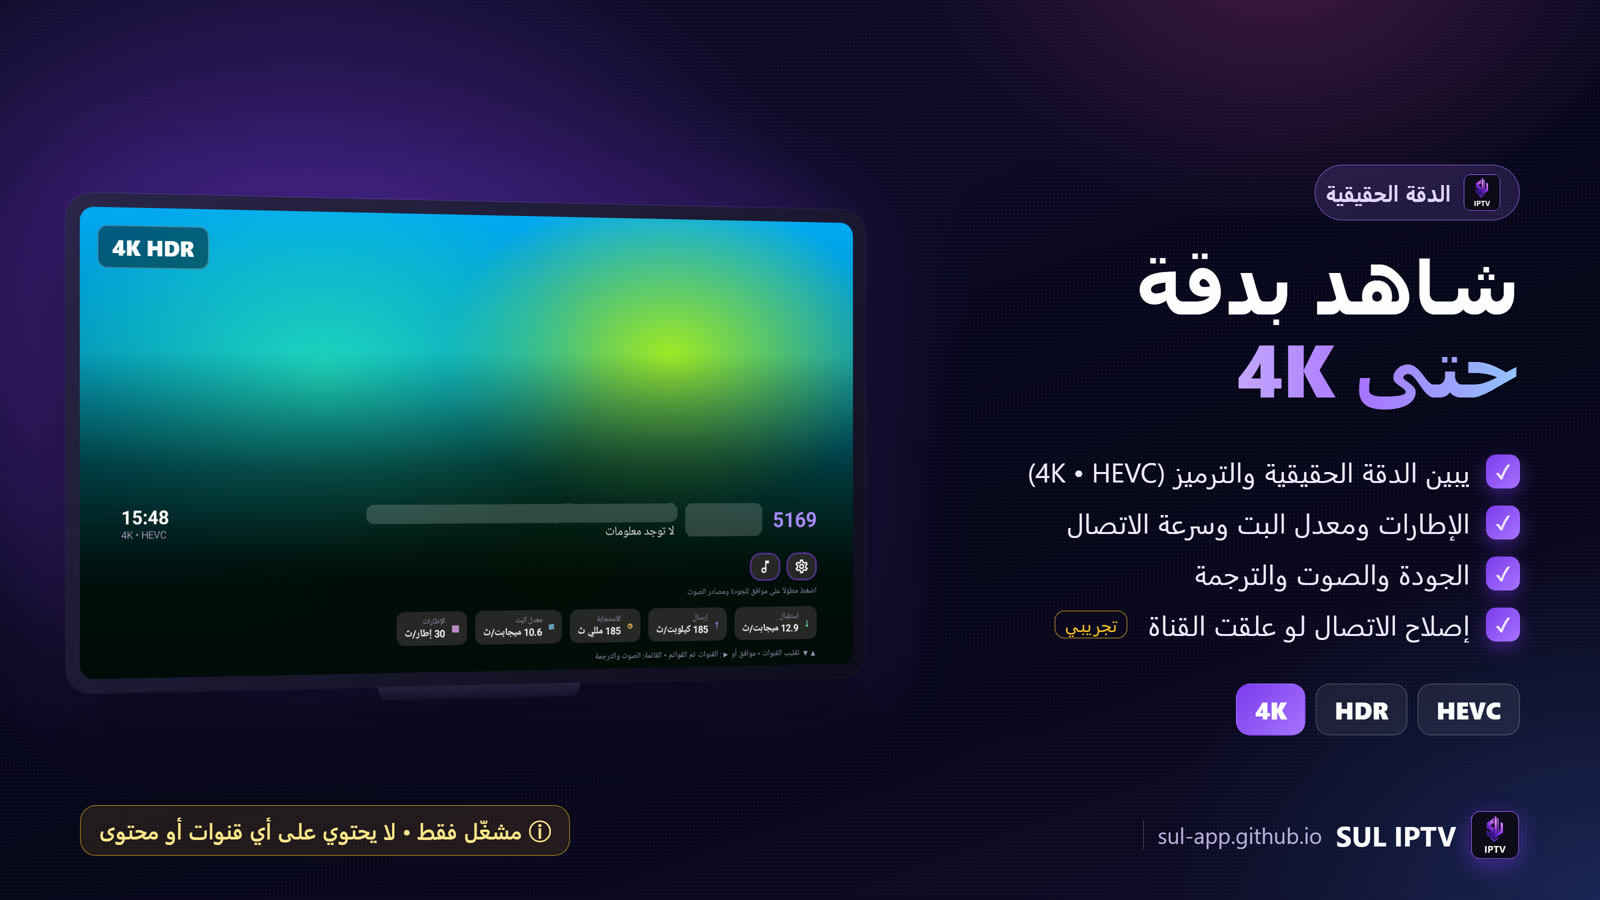
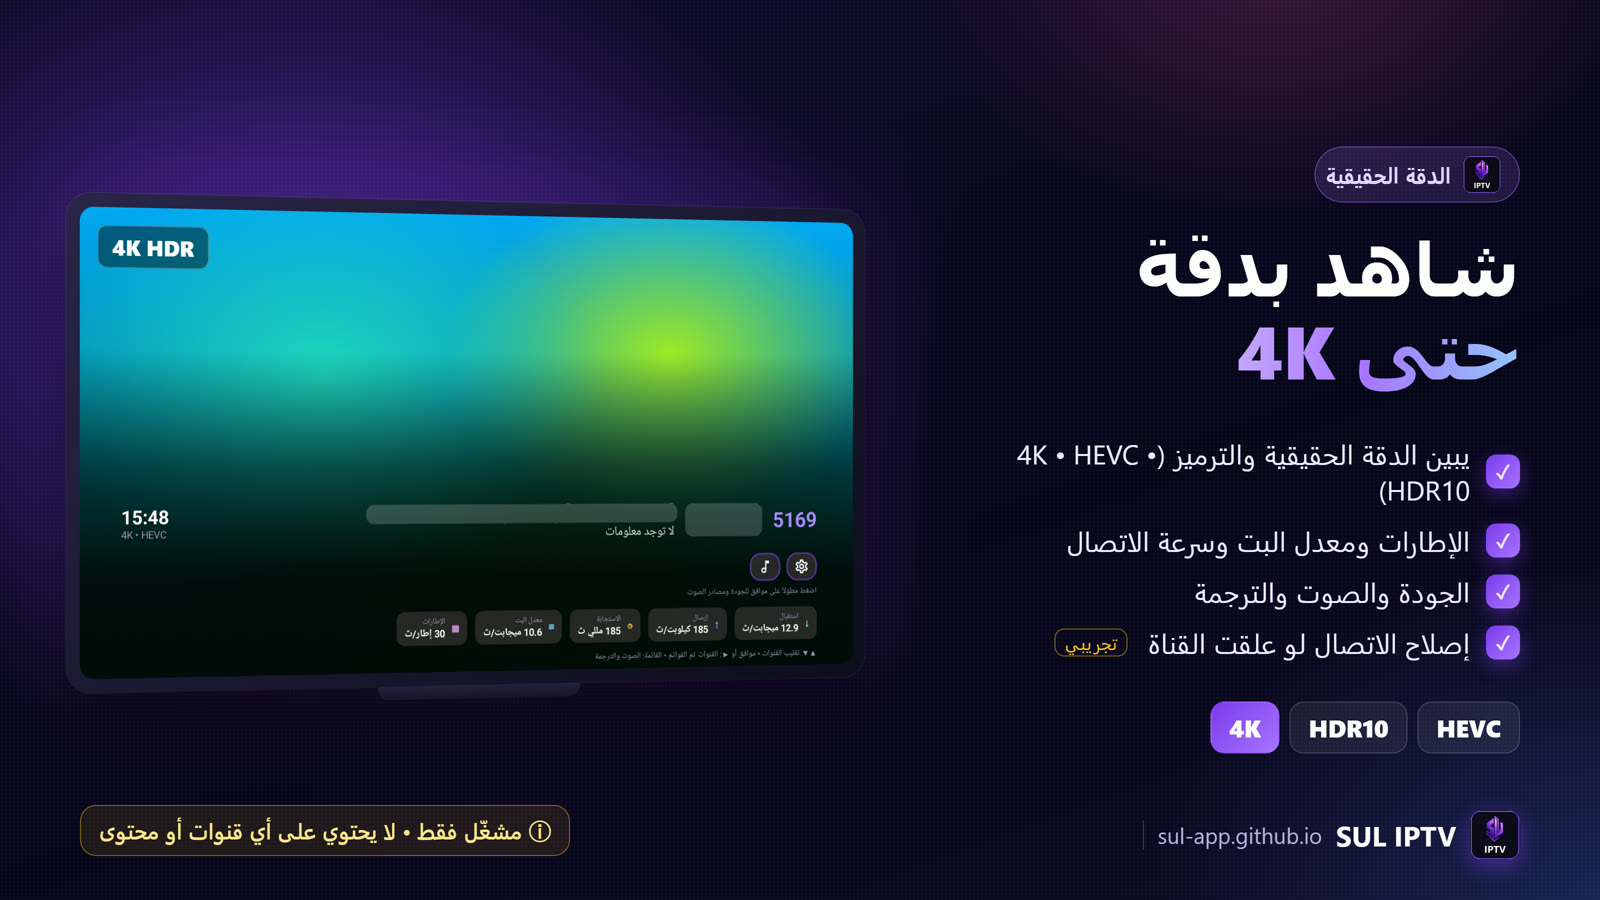
Mention HDR10 detection

Changed region(s): [[0.625, 0.4978, 0.9688, 0.84], [0.6875, 0.28, 0.9688, 0.4667], [0.8125, 0.1556, 0.9688, 0.2489]]

diff --git a/index.html b/index.html
@@ -134,7 +134,7 @@
       <div class="card"><span class="ic">🗓</span><h3>دليل البرامج</h3><p>البرنامج الحالي والتالي لكل قناة، وجدول البرامج على التلفزيون، ورابط EPG مخصص لو تبي.</p></div>
       <div class="card"><span class="ic">👆</span><h3>تقليب القنوات بالسحب</h3><p>وأنت تشاهد: اسحب لفوق للقناة التالية ولتحت للي قبلها، ولمسة وحدة تظهر معلومات القناة. وعلى التلفزيون بالأسهم.</p></div>
       <div class="card"><span class="ic">📱</span><h3>مناسب لجوالات أندرويد</h3><p>يشتغل بالوضع الطولي والعرضي ويتعدّل على مقاس الشاشة، والمشاهدة تكمل لما تدير الجوال. أزرار رجوع وقائمة القنوات والخيارات فوق، والجودة والصوت تطلع من تحت.</p></div>
-      <div class="card"><span class="ic">🎯</span><h3>الدقة الحقيقية حتى 4K</h3><p>يبين لك دقة البث الحقيقية (مثل 4K • HEVC) وعدد الإطارات في الثانية ومعدل البت، مو بس اسم القناة. يدعم حتى 4K و HDR.</p></div>
+      <div class="card"><span class="ic">🎯</span><h3>الدقة الحقيقية حتى 4K</h3><p>يبين لك دقة البث الحقيقية والترميز ونوع HDR (مثل 4K • HEVC • HDR10) وعدد الإطارات في الثانية ومعدل البت، مو بس اسم القناة. يدعم حتى 4K و HDR10 و HLG.</p></div>
       <div class="card"><span class="ic">⚙</span><h3>الجودة والصوت والترجمة</h3><p>اختر جودة البث من الجودات المتوفرة، ومسار الصوت، والترجمة، ونسبة العرض.</p></div>
       <div class="card"><span class="ic">📶</span><h3>معلومات الاتصال</h3><p>سرعة الاستقبال والإرسال وزمن الاستجابة ومعدل البت والإطارات وقت المشاهدة، وتنبيه لو الاتصال ما يكفي.</p></div>
       <div class="card"><span class="ic">🧪</span><h3>إصلاح الاتصال (تجريبي)</h3><p>لو علقت القناة يحاول يصلحها تلقائياً بخطوات: تغيير DNS، وتنشيط الاتصال، وإعادة الاتصال بجودة مرنة. الميزة تجريبية وتقدر تطفيها من الإعدادات.</p></div>
